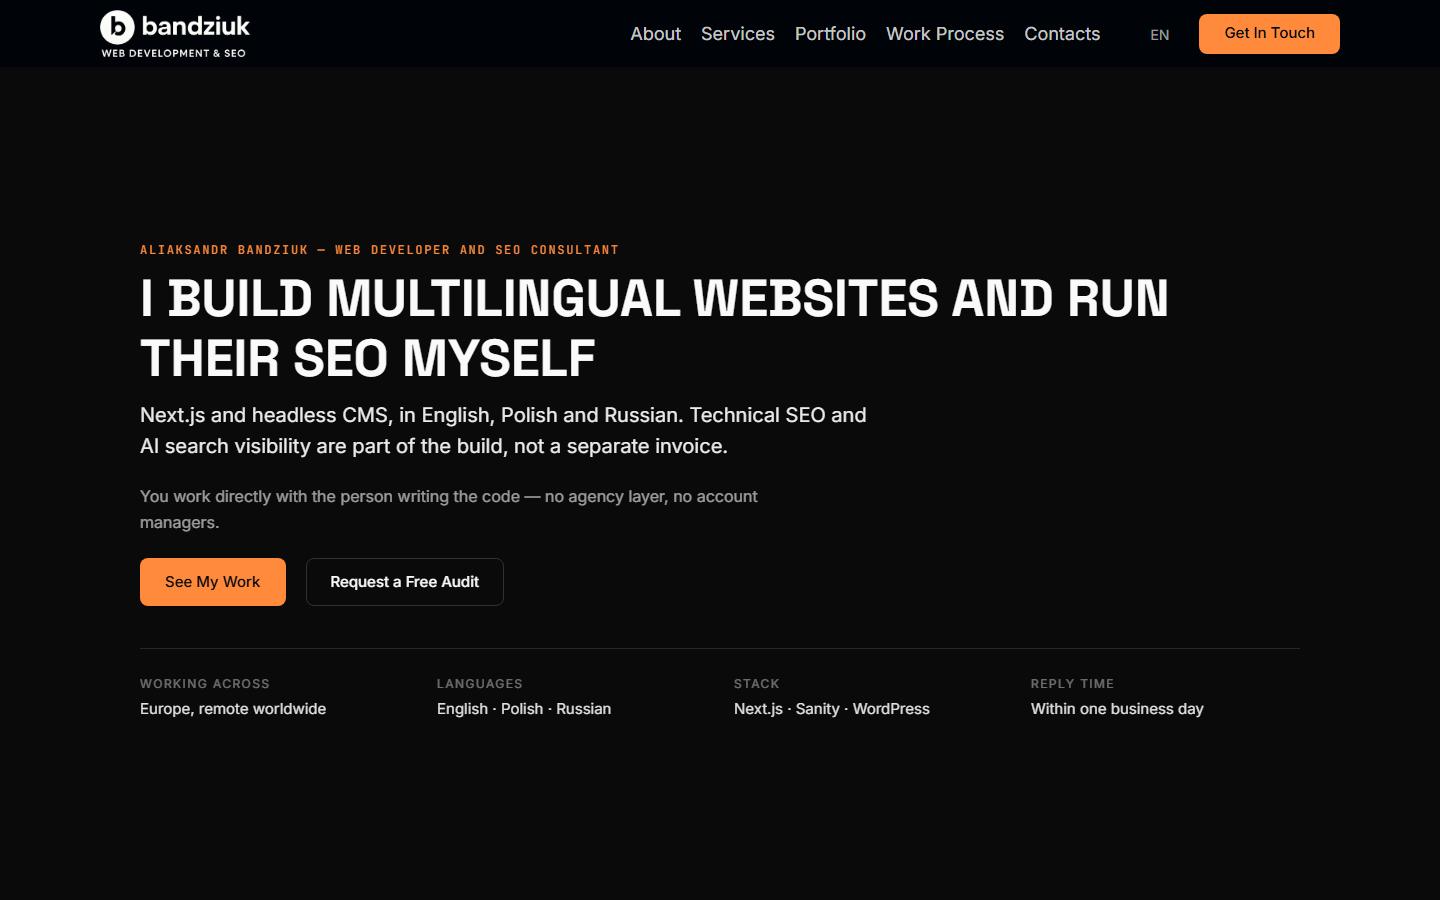
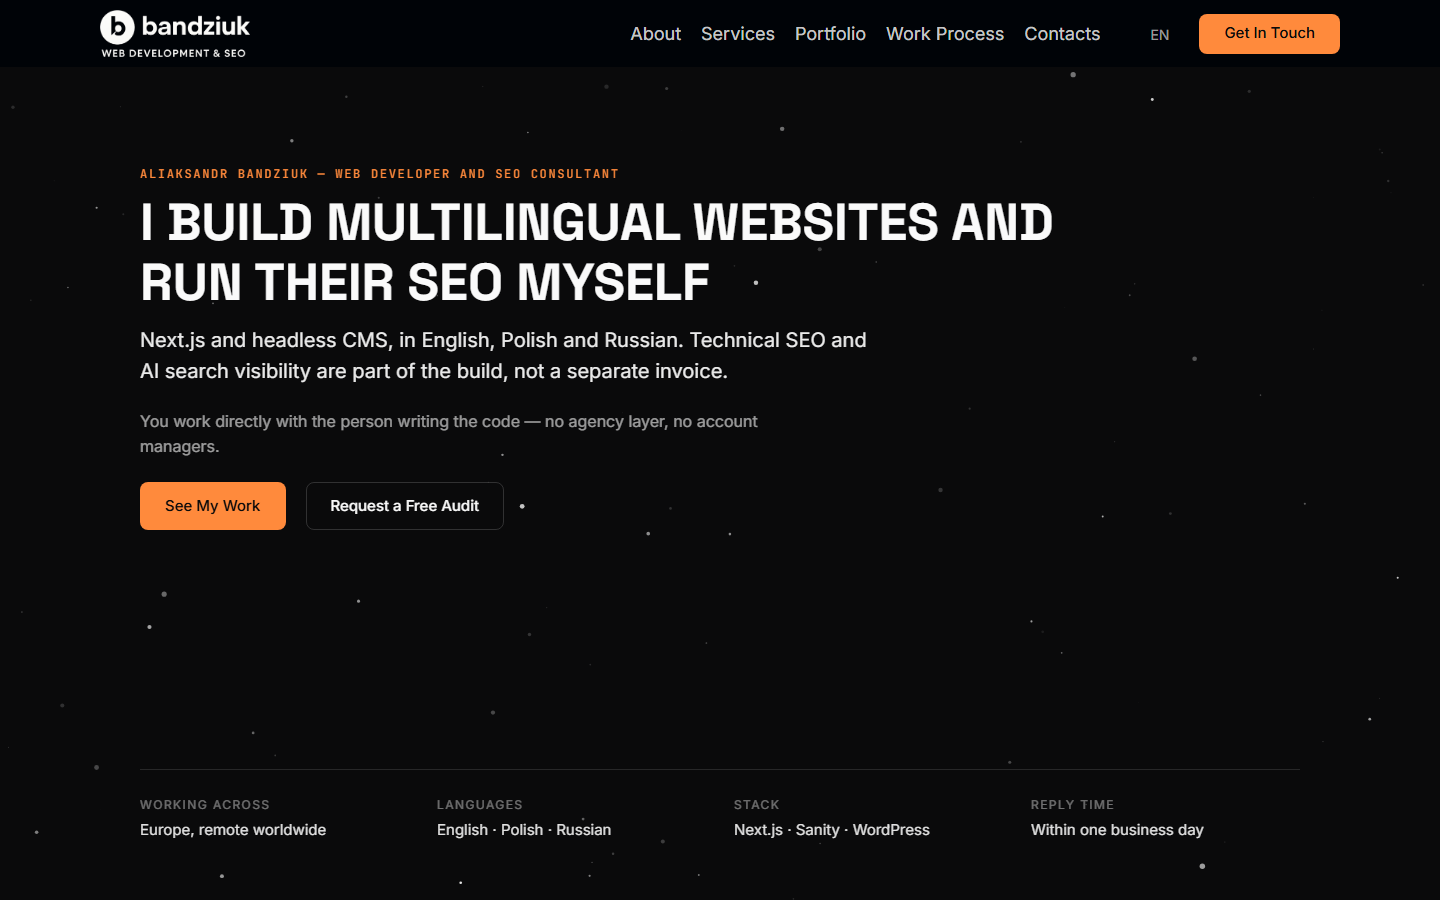
Pin the hero fact strip to the section floor, narrow the headline only
Three adjustments against mockup A, plus the bug the first of them exposed.

- The fact strip now sits on the bottom edge of the section instead of
  trailing the CTAs. Needed a full-height column: the section stretches its
  children, the container is a column, the wrapper takes flex:1, and the
  strip claims the slack with margin-top:auto from 768px up. Below that the
  strip keeps a fixed 32px offset — a narrow viewport has no free space to
  absorb, and an auto margin there would collapse to zero.
- The main block sits high in the section with a small viewport-relative
  offset rather than dead centre.
- The H1 is capped so the English headline breaks after "and". Tuned by
  measuring rendered line boxes, not by eye: at the 52px ceiling the cap is
  962px, "…websites and" measures 914px and fits, adding "run" would take it
  to 1030px and does not.

The bug: capping the H1 collapsed the entire content column, so the fact
strip stopped spanning the full width. The global `.container` declares
max-width and auto margins but never `width`, so as a flex item of the hero
it sized to its widest child — which had been the unconstrained headline.
Narrowing the headline therefore narrowed everything. The container now
fills the row explicitly, so headline width and column width are
independent.

Screenshots in drafts/hero-mockups/ refreshed at 1440, 1920, 390 and RU.

diff --git a/src/app/components/sections/Hero/Hero.module.scss b/src/app/components/sections/Hero/Hero.module.scss
@@ -12,7 +12,9 @@
   // overflow:hidden clipped the top of the H1 on a 390px screen.
   min-height: 100dvh;
   display: flex;
-  align-items: center;
+  // stretch, not center: the wrapper has to span the full section height for
+  // the fact strip to sit on its bottom edge.
+  align-items: stretch;
   overflow: hidden;
   background-color: var(--bg-base);
 
@@ -21,13 +23,31 @@
   }
 }
 
+// The global .container declares max-width and auto margins but no width, so
+// as a flex item of this section it would size to its widest child. That made
+// the whole content column collapse the moment the H1 got a max-width. Force
+// it to fill the row so the fact strip keeps spanning the full column no
+// matter how narrow the headline is.
+.heroSection > :global(.container) {
+  flex: 1 1 auto;
+  width: 100%;
+  min-width: 0;
+  // Also a column, so the wrapper inside it can stretch to the section's full
+  // height — otherwise the wrapper is only as tall as its content and the
+  // fact strip has no free space to be pushed into.
+  display: flex;
+  flex-direction: column;
+}
+
 .wrapper {
-  // Vertical centring belongs to the flex parent, so this stays in normal flow
-  // and the section grows instead of cropping.
   position: relative;
   z-index: 1;
   width: 100%;
   max-width: 100%;
+  // Full-height column so its last child can be pinned to the bottom edge.
+  display: flex;
+  flex-direction: column;
+  flex: 1;
   // Top padding clears the fixed header.
   padding: 100px 20px 40px;
   margin: 0 auto;
@@ -48,14 +68,26 @@
 }
 
 .heroSectionContent {
+  flex: 1;
   display: flex;
   flex-direction: column;
   align-items: flex-start;
   text-align: left;
+}
+
+// Heading, lede, supporting line and CTAs. Sits high in the section with a
+// small breathing offset rather than dead centre — the fact strip below takes
+// the remaining space via its auto margin.
+.main {
+  display: flex;
+  flex-direction: column;
+  align-items: flex-start;
   gap: 18px;
+  width: 100%;
 
   @media screen and (min-width: 768px) {
     gap: 22px;
+    margin-top: clamp(0px, 5vh, 64px);
   }
 }
 
@@ -83,7 +115,10 @@
 
 .facts {
   width: 100%;
-  margin: 14px 0 0;
+  // auto pushes the strip to the bottom edge of the section; the 32px floor
+  // keeps it off the CTAs when content is taller than the viewport and there
+  // is no free space left to absorb.
+  margin: 32px 0 0;
   padding-top: 22px;
   border-top: 1px solid rgba(255, 255, 255, 0.12);
 
@@ -94,7 +129,7 @@
   gap: 18px 20px;
 
   @media screen and (min-width: 768px) {
-    margin-top: 20px;
+    margin-top: auto;
     padding-top: 26px;
     gap: 22px 28px;
   }

diff --git a/src/app/components/sections/Hero/Hero.tsx b/src/app/components/sections/Hero/Hero.tsx
@@ -32,32 +32,37 @@ const Hero: FC<Props> = ({ heroSection }) => {
       <div className="container">
         <div className={styles.wrapper}>
           <div className={styles.heroSectionContent}>
-            <SectionHeading
-              as="h1"
-              size="hero"
-              align="left"
-              eyebrow={eyebrow}
-              eyebrowVariant="plain"
-              title={title}
-              subtitle={subtitle}
-            />
-            <p className={styles.text}>{text}</p>
+            {/* Everything above the fact strip is one group, so the strip can
+                be pushed to the bottom of the section with a single auto
+                margin while this block stays near the top. */}
+            <div className={styles.main}>
+              <SectionHeading
+                as="h1"
+                size="hero"
+                align="left"
+                eyebrow={eyebrow}
+                eyebrowVariant="plain"
+                title={title}
+                subtitle={subtitle}
+              />
+              <p className={styles.text}>{text}</p>
 
-            <div className={styles.buttons}>
-              {heroButtons.map((btn) => {
-                if (btn.type === "popup") {
+              <div className={styles.buttons}>
+                {heroButtons.map((btn) => {
+                  if (btn.type === "popup") {
+                    return (
+                      <ModalButton key={btn._key} variant="secondary">
+                        {btn.label}
+                      </ModalButton>
+                    );
+                  }
                   return (
-                    <ModalButton key={btn._key} variant="secondary">
+                    <Button key={btn._key} href={btn.link} variant="primary">
                       {btn.label}
-                    </ModalButton>
+                    </Button>
                   );
-                }
-                return (
-                  <Button key={btn._key} href={btn.link} variant="primary">
-                    {btn.label}
-                  </Button>
-                );
-              })}
+                })}
+              </div>
             </div>
 
             {/* Below the CTAs on purpose: label/value pairs are supporting

diff --git a/src/app/components/shared/SectionHeading/SectionHeading.module.scss b/src/app/components/shared/SectionHeading/SectionHeading.module.scss
@@ -56,6 +56,11 @@
   font-size: clamp(2.188rem, 1.656rem + 2.13vw, 3.25rem);
   font-weight: 600;
   text-transform: uppercase;
+  // Measured in em so the cap tracks the clamped font size. 18.5em ≈ 962px at
+  // the 52px ceiling: "…WEBSITES AND" measures ~922px and fits, adding "RUN"
+  // takes it to ~1030px and does not. Caps the headline only — the content
+  // column keeps its full width (see .heroSection > .container in Hero).
+  max-width: 18.5em;
 }
 
 .subtitle {
